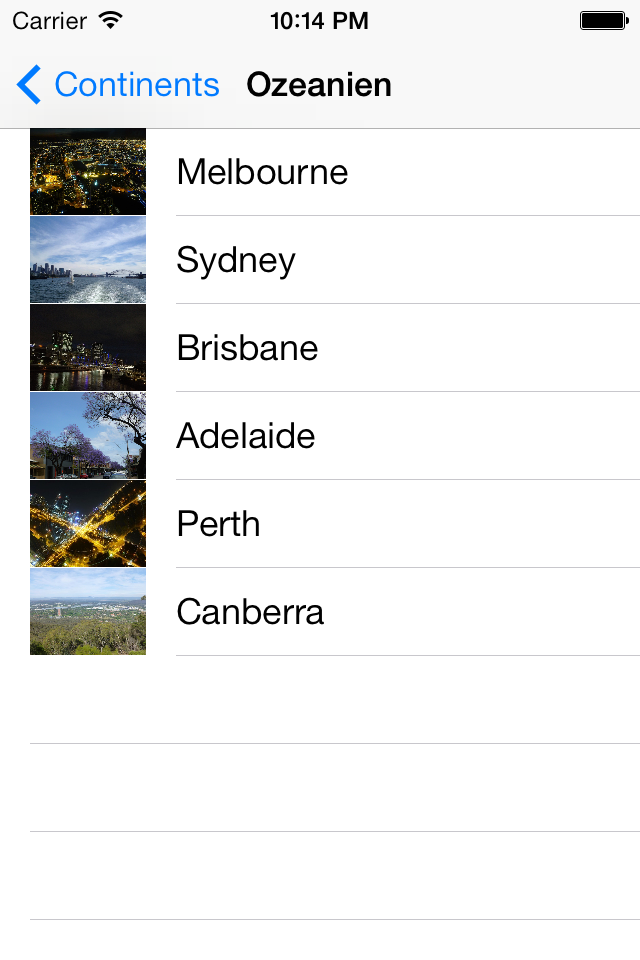
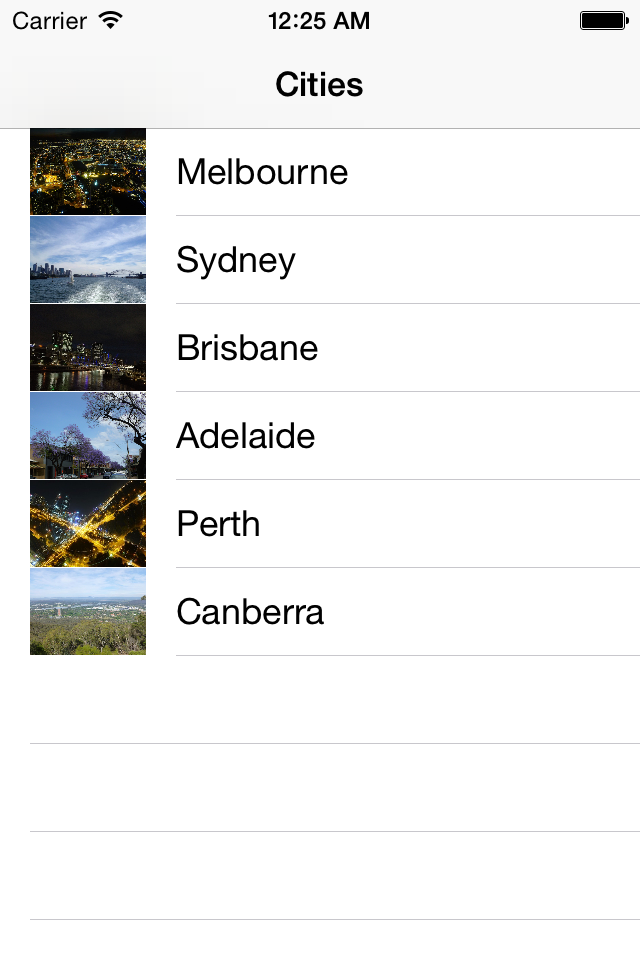
updated for lecture 8

diff --git a/ios_dev_kurs_app_katalog.tex b/ios_dev_kurs_app_katalog.tex
@@ -1234,7 +1234,7 @@ Implementiert diesen ersten Teil der Cities App, indem ihr die Schritte oben nac
 \end{exc}
 
 
-\end{lecture}\end{document} % POINTER
+\end{lecture}
 
 
 \begin{lecture}
@@ -1252,7 +1252,7 @@ UIKit stellt für diese häufig verwendete Master-Detail View Controller Hierarc
 
 \item Ihr könnt nun die Modal Segue zwischen \objc{CitiesViewController} und \objc{CityDetailViewController} auswählen und im Attributes Inspector den Typ zu \strong{Push Segue} ändern. Nun wird automatisch statt der \objc{presentViewController:animated:completion} Methode von \objc{UIViewController} die \objc{pushViewController:animated:} Methode von \objc{UINavigationController} aufgerufen, wenn die Segue ausgelöst wird.
 
-\item Den 'Zurück' Button könnt ihr nun entfernen, da \objc{UINavigationController} einen eigenen Mechanismus implementiert und eine \objc{UINavigationBar} am oberen Bildschirmrand anzeigt. Auch die Labels werden nicht mehr benötigt. Stattdessen können wir das \objc{NSString *title} Attribut von \objc{UIViewController} verwenden, dessen Wert als Titel in der Navigation Bar angezeigt wird \abbref{img:nav_controller_ui}.
+\item Den \emph{Zurück} Button könnt ihr nun entfernen, da \objc{UINavigationController} einen eigenen Mechanismus implementiert und eine \objc{UINavigationBar} am oberen Bildschirmrand anzeigt. Auch die Labels werden nicht mehr benötigt. Stattdessen können wir das \objc{NSString *title} Attribut von \objc{UIViewController} verwenden, dessen Wert als Titel in der Navigation Bar angezeigt wird \abbref{img:nav_controller_ui}.
 
 \includegraphicsc{img/nav_controller_ui.png}{img:nav_controller_ui}{Navigation Controller zeigen eine Navigation Bar an}
 
@@ -1281,35 +1281,19 @@ UIKit stellt für diese häufig verwendete Master-Detail View Controller Hierarc
 
 Verwendet außerdem gerne Auto Layout, um die Views zu positionieren.
 
-\item Durch die Verwendung des Navigation Controllers erhält unsere App nun die Standardanimationen und -mechanismen aus UIKit, diese sich durch die Verwendung von Subklassen und sog. Delegates vielseitig anpassen lassen \abbref{img:nav_controller_run}.
+\item Da wir den Initial View Controller und damit den Root View Controller des Window Objekts verändert haben, müssen wir noch kurz die Implementierung des App Delegates anpassen, um das City Objekt korrekt weiterzugeben.
+
+\begin{objclst}
+// App Delegate.m > application:didFinishLaunchingWithOptions:
+CitiesViewController *citiesVC = [(UINavigationController *)self.window.rootViewController viewControllers][0];
+\end{objclst}
+
+
+\item Durch die Verwendung des Navigation Controllers erhält unsere App nun die Standardanimationen und -mechanismen aus UIKit, die sich bspw. durch die Verwendung von Subklassen und sog. Delegates vielseitig anpassen lassen \abbref{img:nav_controller_run}.
 
 \includegraphicsc[\iphonewidth]{img/nav_controller_run.png}{img:nav_controller_run}{Navigation Controller stellen Standardanimationen und -mechanismen zur Verfügung}
 
 \end{enumerate}
-
-\begin{exc}
-
-\begin{excitem}{continents}{Continents}
-
-Erweitert die App um einen View Controller, der die Städte in Kontinente (oder Planeten) einteilt. Alternativ könnt ihr natürlich auch gene kreativ werden und eine eigene App schreiben, in der zwischen verschiedenen View Controllern gewechselt wird!
-
-\begin{enumerate}
-\item Wenn wir weitere Städte hinzufügen, kann es sinnvoll sein, sie in Kontinente (oder Planeten) einzuteilen. Erstellt eine neue Klasse \objc{Continent} und definiert analog zur \objc{City} Klasse die Attribute \objc{NSString *name} und \objc{UIImage *image}. Aufgrund der Analogien zwischen den beiden Klassen könnt ihr auch stattdessen eine Superklasse \objc{Location} erstellen, die die beiden Attribute definiert, und von der \objc{Continent} und \objc{City} abstammen.
-\item Modifiziert die Benutzerführung der Cities App durch die Einführung eines neuen View Controllers \objc{ContinentsViewController}, der bei der Ausführung zuerst angezeigt werden soll. Konfiguriert einen Button mit dem Namen eines Kontinenten und stellt eine Push Segue Verbindung zum Cities View Controller her.
-\item Implementiert die \objc{prepareForSegue:sender:} Methode des \objc{ContinentsViewController}. Übergebt hier einem neuen Attribut \objc{Continent *continent} des Cities View Controller ein \objc{Continent} Objekt entsprechend des betätigten Buttons.
-\item Verwendet die \objc{viewWillAppear:} Methode, um den Kontinentnamen als Titel des Cities View Controller entsprechend des übergebenen \objc{Continent} Objekts anzuzeigen.
-\item \excextra{Erweitert die Klasse \objc{Location} (bzw. \objc{Continent}) um ein Attribut \objc{NSArray *subLocations} für die enthaltenen Orte. Fügt den View Controllern \objc{ContinentsViewController} und \objc{CitiesViewController} jeweils einen weiteren Button für einen zweiten Ort hinzu. Versucht nun die Implementierungen anzupassen, sodass die Betätigung eines Buttons den entsprechenden Ort an den nächsten View Controller weitergibt. Die Cities View Controller soll also bswp. die Namen der beiden Städte an Position 0 und 1 des \objc{subLocations} Attributs des \objc{Continent} Objekts anzeigen. Eine Limitierung auf 2 Orte ist hier ausreichend, im nächsten Abschnitt werden wir für Situationen dieser Art dynamische Table Views verwenden.}
-\end{enumerate}
-
-\end{excitem}
-
-\end{exc}
-
-
-\end{lecture}
-
-
-\begin{lecture}
 
 
 \section{More Cities}
@@ -1320,65 +1304,57 @@ Wenn wir eine Liste von Objekten darstellen wollen, konfigurieren wir natürlich
 
 \begin{enumerate}
 
-\item Wir möchten nun eine Liste von Städten anstatt einzelner Buttons anzeigen. Dafür ändern wir die Superklasse unseres \objc{CitiesViewController} von \objc{UIViewController} zu \objc{UITableViewController}. Außerdem können wir die IBOutlets entfernen.
+\item Wir möchten nun eine Liste von Städten anstatt einzelner Buttons anzeigen. Dafür ändern wir die Superklasse unseres \objc{CitiesViewController} von \objc{UIViewController} zu \objc{UITableViewController}. Außerdem können wir die IBOutlet Referenz zu dem \emph{cityButton} entfernen.
 
-\item Ein Table View Controller hat ein Objekt der \objc{UITableView} Klasse als Content View. Im Storyboard müssen wir daher die bisherige Content View mit einem Table View Objekt aus der Object Library ersetzen. Die Content View wird ersetzt, wenn wir die neue View einfach auf das View Controller Objekt im Navigationsbereich ziehen.
+\item Ein Table View Controller hat ein Objekt der \objc{UITableView} Klasse als Content View. Im Storyboard müssen wir daher die bisherige Content View mit einem Table View Objekt aus der Object Library ersetzen. Die Content View wird ersetzt, wenn wir die neue View einfach auf das View Controller Objekt in der Document Outline links ziehen.
 
-\strong{Hinweis:} Anstatt einen existierenden View Controller wie beschrieben in einen Table View Controller umzukonfigurieren, kann auch ein Table View Controller aus der Object Library gezogen werden.
+\strong{Hinweis:} Anstatt einen existierenden View Controller wie beschrieben in einen Table View Controller umzukonfigurieren, kann auch ein Table View Controller aus der Object Library gezogen werden. Dieser hat dann bereits eine \objc{UITableView} als Content View
 
-\item Eine Table View kann, wie im Skript beschrieben, dynamischen oder statischen Inhalt darstellen. Im Attributes Inspector können wir den Modus 'Dynamic Properties' auswählen. Damit die Table View nun Inhalt präsentieren kann, benötigt sie \strong{Prototype Cells}, die den 'Bauplan' für jede Zelle dieser Art definieren. Fügt dafür eine \objc{UITableViewCell} aus der Object Library hinzu oder erhöht die entsprechende Zahl im Attributes Inspector um 1.
+\item Eine Table View kann, wie im Skript beschrieben, dynamischen oder statischen Inhalt darstellen. Im Attributes Inspector können wir den Modus \emph{Dynamic Properties} auswählen. Damit die Table View nun Inhalt präsentieren kann, benötigt sie \strong{Prototype Cells}, die den "{}Bauplan"{} für jede Zelle dieser Art definieren. Fügt dafür eine \objc{UITableViewCell} aus der Object Library hinzu oder erhöht die entsprechende Zahl im Attributes Inspector um 1.
 
-\item Wir können Prototype Cells nun entweder nach Belieben mit Subviews konfigurieren, oder im Attributes Inspector einen Standardstil auswählen. Wählt hier zunächst 'Basic' \abbref{img:morecities_prototypecells}.
+\item Wir können Prototype Cells nun entweder nach Belieben mit Subviews konfigurieren, oder im Attributes Inspector einen Standardstil auswählen. Wählt hier zunächst einfach \emph{Basic} \abbref{img:morecities_prototypecells}.
 
 \includegraphicsc[\iphonewidth]{img/morecities_prototypecells.png}{img:morecities_prototypecells}{Prototype Cells dienen als Vorlage für die Zellen der Table View}
 
-\item Um Prototype Cells zu identifizieren, sollte ihnen ein \strong{Reuse Identifier} im Attributes Inspector zugeordnet werden. Tippt hier 'cityCell' ein.
+\item Um Prototype Cells zu identifizieren, sollte ihnen ein \strong{Reuse Identifier} im Attributes Inspector zugeordnet werden. Tippt hier \emph{cityCell} ein. Wie im Skript erklärt kann die Table View damit Zellen, die gerade nicht angezeigt werden, an anderer Stelle wiederverwenden.
 
-\item Da unsere Table View dynamischen Inhalt anzeigen soll, können wir diesen nicht im Storyboard konfigurieren. Stattdessen verwendet die Table View das \strong{Delegate Kozept}, um Daten zu 'erfragen', wenn sie sie benötigt. Dazu ruft das \objc{UITableView} Objekt Methoden auf einem Delegate Objekt auf, die in einem \strong{Protokoll} definiert sind. \objc{UITableView} teilt diese Anfragen in die \objc{UITableViewDatasource} und \objc{UITableViewDelegate} Protokolle auf. Um den entsprechenden Attributen \objc{id<UITableViewDatasource> datasource} und \objc{id<UITableViewDelegate> delegate} Objekte zuzuweisen, sind diese als IBOutlets markiert. Zieht also zwei Verbindungen von der Table View zum \objc{CitiesViewController} und wählt diesen damit sowohl als Delegate als auch als Datasource.
+\item Da unsere Table View dynamischen Inhalt anzeigen soll, können wir diesen nicht im Storyboard konfigurieren. Stattdessen verwendet die Table View das \strong{Delegate Kozept}, um Daten zu "{}erfragen"{}, wenn sie sie benötigt. Dazu ruft das \objc{UITableView} Objekt Methoden auf einem Delegate Objekt auf, die in einem \strong{Protokoll} definiert sind. \objc{UITableView} teilt diese Anfragen in die \objc{UITableViewDatasource} und \objc{UITableViewDelegate} Protokolle auf. Um den entsprechenden Attributen \objc{id<UITableViewDatasource> datasource} und \objc{id<UITableViewDelegate> delegate} Objekte zuzuweisen, sind diese als IBOutlets markiert. Zieht also zwei Verbindungen von der Table View zum \objc{CitiesViewController} und wählt diesen damit sowohl als Delegate als auch als Datasource.
 
-\item Im Allgemeinen repräsentiert eine Table View ein \objc{NSArray}. Definiert also im Interface des \objc{CitiesViewController} ein Attribut \objc{NSArray *cities} und überschreibt die Getter Methode des Attributs, um die Liste auf Anfrage zu erstellen und zurückzugeben:
+\item Im Allgemeinen repräsentiert eine Table View ein \objc{NSArray}. Definiert also im öffentlichen Interface des \objc{CitiesViewController} ein Attribut \objc{NSArray *cities} anstatt des bisherigen \objc{City *city} Attributs.
 
 \begin{objclst}
-#import "CitiesViewController.h"
-#import "City.h"
+// CitiesViewController.h
 
-@interface CitiesViewController ()
+@interface CitiesViewController : UITableViewController
 
 @property (strong, nonatomic) NSArray *cities;
 
 @end
+\end{objclst}
 
-@implementation CitiesViewController
+Passt außerdem erneut die Implementierung des App Delegates an, um diesem Attribut nun eine Liste von Städten zuzuweisen.
 
-- (NSArray *)cities {
-    /* Da wir die Getter Methode hier überschreiben, können wir nicht self.cities verwenden, da die Dot-Syntax die Getter Methode aufruft (Endlosschleife). Stattdessen verwenden wir die ebenfalls (für jede Property) automatisch generierte Instanzvariable _cities (s. Skript). */
-    if (!_cities) {
+\begin{objclst}
+// AppDelegate.m
 
-        City *melbourne = [[City alloc] init];
-        melbourne.name = @"Melbourne";
-        melbourne.image = [UIImage imageNamed:@"melbourne"];
-        City *sydney = [[City alloc] init];
-        sydney.name = @"Sydney";
-        sydney.image = [UIImage imageNamed:@"sydney"];
-        City *brisbane = [[City alloc] init];
-        brisbane.name = @"Brisbane";
-        brisbane.image = [UIImage imageNamed:@"brisbane"];
-        City *adelaide = [[City alloc] init];
-        adelaide.name = @"Adelaide";
-        adelaide.image = [UIImage imageNamed:@"adelaide"];
-        City *perth = [[City alloc] init];
-        perth.name = @"Perth";
-        perth.image = [UIImage imageNamed:@"perth"];
-        City *canberra = [[City alloc] init];
-        canberra.name = @"Canberra";
-        canberra.image = [UIImage imageNamed:@"canberra"];
+- (BOOL)application:(UIApplication *)application didFinishLaunchingWithOptions:(NSDictionary *)launchOptions
+{
+    // create some city objects
+    City *melbourne = [[City alloc] init];
+    melbourne.name = @"Melbourne";
+    melbourne.image = [UIImage imageNamed:@"melbourne"];
+    City *sydney = [[City alloc] init];
+    sydney.name = @"Sydney";
+    sydney.image = [UIImage imageNamed:@"sydney"];
+    // (...)
 
-        _cities = @[melbourne, sydney, brisbane, adelaide, perth, canberra];
-    }
-    return _cities;
+    // provide root view controller with model objects
+    CitiesViewController *citiesVC = [(UINavigationController *)self.window.rootViewController viewControllers][0];
+    citiesVC.cities = @[melbourne, sydney];
+    
+    return YES;
 }
 
-@end
 \end{objclst}
 
 \item Als Subklasse von \objc{UITableViewController} erbt \objc{CitiesViewController} leere Implementierungen der \objc{UITableViewDatasource} und \objc{UITableViewDelegate} Protokolle. Wir können diese nun überschreiben, um unsere Tabelle mit Daten zu füllen. Dabei sind zunächst die drei erforderlichen Methoden zur Darstellung einer dynamischen Table View zu implementieren:
@@ -1400,7 +1376,7 @@ Wenn wir eine Liste von Objekten darstellen wollen, konfigurieren wir natürlich
     City *city = [self.cities objectAtIndex:indexPath.row];
 
     // Erstellt ein neues UITableViewCell Objekt entsprechend der im Storyboard definierten Prototype Cell mit dem gegebenen Identifier oder verwendet eine existierende, momentan nicht verwendete Zelle mit diesem Identifier
-    UITableViewCell *cell = [tableView dequeueReusableCellWithIdentifier:@"cityCell"];
+    UITableViewCell *cell = [tableView dequeueReusableCellWithIdentifier:@"cityCell" forIndexPath:indexPath];
 
     // Konfiguriert die View entsprechend des Models
     cell.textLabel.text = city.name;
@@ -1410,45 +1386,63 @@ Wenn wir eine Liste von Objekten darstellen wollen, konfigurieren wir natürlich
 }
 \end{objclst}
 
-\objc{#pragma mark} kennzeichnet eine Überschrift ähnlich eines Kommentars und wird zusätzlich in der Jump Bar angezeigt. Ein Bindestrich \objc{-} erzeugt dort eine horizontale Trennlinie
+\objc{#pragma mark} kennzeichnet eine Überschrift ähnlich eines Kommentars und wird zusätzlich in der Jump Bar angezeigt. Ein Bindestrich \objc{-} erzeugt dort eine horizontale Trennlinie.
+
+Die zuvor implementierten Methoden werden nicht mehr benötigt.
 
 \item Diese drei Methoden des \objc{UITableViewDatasource} Protokolls stellen der Table View die erforderlichen Informationen zur Verfügung, um die Tabelle anzeigen zu können \abbref{img:cities_tableview}.
 
 \includegraphicsc[\iphonewidth]{img/cities_tableview.png}{img:cities_tableview}{Eine Table View stellt Anfragen an ihr Datasource und Delegate Objekt, um Zellen dynamisch anzuzeigen}
 
-\item Die Präsentation des Detail City View Controllers kann nun erneut mithilfe von Segues realisiert werden. Dazu können wir im Storyboard eine Push Segue von der Prototype Cell zum Detail City View Controller erstellen.
+\item Die Präsentation des Detail City View Controllers kann nun erneut mithilfe von Segues realisiert werden. Dazu können wir im Storyboard eine Push Segue von der Prototype Cell zum Detail City View Controller erstellen und ihr erneut den Identifier \emph{showCityDetail} geben.
 
 \item Da diese Segue nun von jeder Zelle ausgelöst wird, die nach Vorlage der Prototype Cell erstellt wurde, müssen wir in der \objc{prepareForSegue:sender:} Methode zunächst den Index Path der betätigten Zelle herausfinden. Damit lässt sich anschließend das entsprechende Model Objekt erhalten und der City Detail View Controller konfigurieren.
 
 \begin{objclst}
-- (void)prepareForSegue:(UIStoryboardSegue *)segue sender:(id)sender {
+//  ViewController.m
 
-    NSIndexPath *indexPath = [self.tableView indexPathForCell:sender];
-    City *city = [self.cities objectAtIndex:indexPath.row];
+#import "CitiesViewController.h"
+#import "City.h"
+#import "CityDetailViewController.h"
 
-    CityDetailViewController *cityDetailVC = segue.destinationViewController;
-    cityDetailVC.city = city;
+@implementation CitiesViewController
+
+#pragma mark - User Interaction
+
+- (void)prepareForSegue:(UIStoryboardSegue *)segue sender:(id)sender
+{
+    if ([segue.identifier isEqualToString:@"showCityDetail"]) {
+
+        City *city = [self.cities objectAtIndex:self.tableView.indexPathForSelectedRow.row];
+        
+        CityDetailViewController *cityDetailVC = segue.destinationViewController;
+        cityDetailVC.city = city;
+    }
 }
+
+#pragma mark - Table View Datasource
+
+// (...)
+
+@end
 \end{objclst}
+
+\item Wird nun eine Stadt in der Liste ausgewählt, wird der City Detail View Controller entsprechend konfiguriert und angezeigt. Beachtet, dass wir an dessen Implementierung nichts geändert haben!
 
 \end{enumerate}
 
 \begin{exc}
 
-\begin{excitem}{tableviews}{Table Views}
+\begin{excitem}{tableviews}{Cities 2}
 
-Verwendet nun analog auch für den Continents View Controller aus der vorherigen Übungsaufgabe eine dynamische Table View oder schreibt eine andere App, die Table Views verwendet.
-
-Ersetzt dazu die Content View des Continents View Controllers im Storyboard mit einer Table View, ändert dessen Klasse zu \objc{UITableViewController} und implementiert die benötigten Methoden der \objc{UITableViewDatasource} und objc{UITableViewDelegate} Protokolle.
-
-\exchinweis{Vergesst nicht, der Table View den Continents View Controller als Datasource und Delegate Objekt zuzuweisen, sodass die Methoden überhaupt aufgerufen werden. Im Storyboard stehen dazu die IBOutlets der Table View zur Verfügung.}
+Implementiert die Cities App nun vollständig, indem ihr die Schritte oben nachvollzieht.
 
 \end{excitem}
 
 \end{exc}
 
 
-\end{lecture}
+\end{lecture}\end{document} % POINTER
 
 
 \begin{lecture}

diff --git a/ios_dev_kurs_skript.tex b/ios_dev_kurs_skript.tex
@@ -1566,11 +1566,6 @@ Im Code können wir auf das Auslösen einer Segue reagieren, um den View Control
 \end{objclst}
 
 
-
-\end{document} % POINTER
-
-
-
 \section{Das Delegate Konzept}\label{sec:delegate_konzept}
 
 In der Programmierung komplexerer Apps ist es häufig notwendig, dass Klassen Informationen untereinander austauschen. Das \strong{Delegate Konzept} ist ein einfacher und vielverwendeter Mechanismus der \strong{einseitigen} Kommunikation zwischen Klassen, das einem einfachen \strong{Frage-Antwort-Prinzip} folgt \abbref{img:delegation}.
@@ -1579,9 +1574,9 @@ In der Programmierung komplexerer Apps ist es häufig notwendig, dass Klassen In
 
 Die aktive (fragende) Klasse stellt in ihrem öffentlichen Header ein \strong{Protokoll} zur Verfügung, das die verwendeten Methoden definiert. Außerdem besitzt sie ein öffentliches Attribut, häufig \objc{delegate} genannt, das eine Referenz zu einem Objekt der passiven (antwortenden) Klasse hält. Diese implementiert die Methoden des Protokolls, die in entsprechenden Situationen von der aktiven Klasse aufgerufen werden können.
 
-Methoden in einem Protokoll dienen in den meisten Fällen einem von zwei Zwecken:
+Methoden in einem Protokoll dienen in den meisten Fällen zwei Zwecken:
 \begin{itemize}
-\item Von dem Delegate Objekt werden Informationen angefordert, oder
+\item Von dem Delegate Objekt werden Informationen angefordert, \emph{und/oder}
 \item Das Delegate Objekt wird benachrichtigt, wenn eine bestimmte Situation eintritt.
 \end{itemize}
 
@@ -1695,7 +1690,7 @@ Das Delegate Konzept ist häufig hilfreich, um erforderliche Informationen anzuf
 
 \section{Table Views \& Table View Controller}
 
-Aufgrund des eingeschränkten Platzes auf Geräten der iOS Plattform verwenden sehr viele Apps \objc{UIScrollView} oder Subklassen derselben, um Views über die Bildschirmgröße hinaus darzustellen. \objc{UITableView} ist eine solche Subklasse, die in einem Großteil der iOS Apps zu finden ist.
+Aufgrund des eingeschränkten Platzes auf Geräten der iOS Plattform verwenden sehr viele Apps \objc{UIScrollView} oder Subklassen davon, um Views über die Bildschirmgröße hinaus darzustellen. \objc{UITableView} ist eine solche Subklasse, die in einem Großteil der iOS Apps zu finden ist.
 
 \strong{Table Views} stellen eine Liste von \objc{UITableViewCell : UIView} Objekten dar und verwenden den Scrollmechanismus von \objc{UIScrollView}.
 
@@ -1729,7 +1724,7 @@ Prinzipiell kann die Table View an einer beliebigen Stelle der View Hierarchie d
 
 In den meisten Fällen verwenden wir jedoch die Table View selbst als Content View des View Controllers. UIKit stellt hierzu die vereinfachende Subklasse \objc{UITableViewController : UIViewController} zur Verfügung, die das Content View Attribut \objc{UIView *view} mit \objc{UITableView *tableView} ersetzt und darüber hinaus einige hilfreiche Mechanismen implementiert.
 
-In der Implementierung der \objc{UITableViewController} Subklasse können wir nun die Methoden der Datasource und Delegate Protokolle implementieren. Die Dokumentation beschreibt die Protokolle in gewohnter ausführlicher Form.
+In der Implementierung der \objc{UITableViewController} Subklasse können wir nun die Methoden der Datasource und Delegate Protokolle implementieren. Die Dokumentation beschreibt die Protokolle in gewohnt ausführlicher Form.
 
 Folgende Methoden sollten jedoch in keiner \objc{UITableViewDatasource} Implementierung fehlen:
 
@@ -1743,7 +1738,7 @@ Folgende Methoden sollten jedoch in keiner \objc{UITableViewDatasource} Implemen
 
 - (NSInteger)tableView:(UITableView *)tableView numberOfRowsInSection:(NSInteger)section {
     // Bestimmt die Anzahl der Rows für die angegebene Section
-    return [self.objects count];
+    return self.objects.count;
 }
 
 - (UITableViewCell *)tableView:(UITableView *)tableView cellForRowAtIndexPath:(NSIndexPath *)indexPath {
@@ -1784,6 +1779,12 @@ Alternativ zur Implementierung dieser Delegate Methode können auch Storyboard S
 
 }
 \end{objclst}
+
+
+
+\end{document} % POINTER
+
+
 
 \section{Data Persistance}
 
@@ -1842,7 +1843,7 @@ Core Data stellt die Grundlage vieler iOS Apps dar und ist eine sehr komplexe un
 
 \subsection{State Preservation}
 
-UIKit bietet ein sehr einfach zu integrierendes System zur Wiederherstellung der Benutzeroberfläche, das jedoch konzeptionell nicht zur Speicherung von Daten den Model Komponente dienen soll. Das State Preservation System ist damit der View- und View Controller Komponente zugeordnet, während für die Model Komponente häufig Core Data verwendet wird.
+UIKit bietet ein sehr einfach zu integrierendes System zur Wiederherstellung der Benutzeroberfläche, das jedoch konzeptionell nicht zur Speicherung von Daten der Model Komponente dienen soll. Das State Preservation System ist damit der View- und View Controller Komponente zugeordnet, während für die Model Komponente häufig Core Data verwendet wird.
 
 Elemente der Benutzeroberfläche werden hier anhand des \objc{NSString* restorationIdentifier} Attributs identifiziert. Bei der Wiederherstellung wird für jeden dieser Identifier ein entsprechendes Objekt angefordert, oder bei Verwendung eines Storyboards automatisch erstellt. View Controller und Views können dann die \objc{encodeRestorableStateWithCoder:} und \objc{decodeRestorableStateWithCoder:} Methoden implementieren, um ihre Darstellung zu archivieren und wiederherzustellen. Im iOS App Programming Guide \linkref{https://developer.apple.com/library/ios/documentation/iPhone/Conceptual/iPhoneOSProgrammingGuide/} ist das State Preservation System ausführlich dokumentiert.
 
@@ -1882,7 +1883,7 @@ Aufgrund der mobilen Natur der iOS Plattform und der einfachen Handhabung von Ap
 
 Dabei wird sich bspw. kaum ein Benutzer über eine leicht verlängerte Laufzeit eines Prozesses aufgrund eines ineffektiven Algorithmus beschweren, solange ihm der Fortschritt auf dem Bildschirm präsentiert wird. Eine 'eingefrorene' App, die jedoch auf effektivste Weise arbeitet, stört das Benutzererlebnis dagegen enorm und wird schnell wieder gelöscht.
 
-Auch auf der iOS Plattform ist Sturgeon's Gesetz deutlich erkennbar: \emph{"ninety percent of everything is crap"}. Erfolgreiche Apps sind daher sorgfältig konzipiert und getestet und zeichnen sich durch eine intuitive Benutzerführung aus. Ein Benutzer sollte jederzeit ohne Nachzudenken wissen, wie er handeln muss, um eine bestimmte Wirkung hervorzurufen. Dieses generelle Designkonzept ist nicht auf iOS Apps beschränkt sondern kann auch in vielen anderen Kontexten beobachtet werden \abbref{img:intuitive_doors}.
+Auch auf der iOS Plattform ist Sturgeon's Gesetz deutlich erkennbar: \emph{"ninety percent of everything is crap"}. Erfolgreiche Apps sind daher sorgfältig konzipiert und getestet und zeichnen sich durch eine intuitive Benutzerführung aus. Ein Benutzer sollte jederzeit ohne Nachzudenken wissen, wie er handeln muss, um eine bestimmte Wirkung hervorzurufen. Dieses generelle Designkonzept ist nicht allein auf iOS Apps beschränkt sondern kann auch in vielen anderen Kontexten beobachtet werden \abbref{img:intuitive_doors}.
 
 %***\includegraphicsc{img/intuitive_doors.png}{img:intuitive_doors}{Öffnet sich eine Tür nur in einer Richtung, wird sie jede zweite Person zunächst falsch zu öffnen versuchen. Beschriftungen helfen hier (nach eigener Erfahrung) meist nur bedingt. Besitzt sie jedoch in der Öffnungsrichtung eine Druckfläche und entgegen der Öffnungsrichtung einen Griff, wird sie jede Person sofort richtig bedienen.}
 
@@ -1923,7 +1924,7 @@ Während ihr auch ohne einen solchen bezahlten Entwickleraccount Apps schreiben 
 
 \subsection{Unternehmensanmeldung}
 
-\emph{Hinweis:} Natürlich bin ich weder Anwalt noch Finanzberater und kann hier allein meine eigene Erfahrung wiedergeben. Wertvolle Informationen zu Themen dieser Art kann hingegen die lokale \strong{IHK / Industrie- und Handelskammer} geben.
+\strong{Hinweis:} Natürlich bin ich weder Anwalt noch Finanzberater und kann hier allein meine eigene Erfahrung wiedergeben. Wertvolle Informationen zu Themen dieser Art kann hingegen die lokale \strong{IHK / Industrie- und Handelskammer} geben.
 
 Es ist unumgänglich, aber sehr einfach, für die Teilnahme am iOS Developer Program ein Unternehmen anzumelden. Dazu ist lediglich ein Besuch beim nächsten \strong{Gewerbeamt}, die Angabe einiger Daten und die Bezahlung einer geringen Gebühr von etwa 30€ erforderlich.
 

diff --git a/ios_dev_kurs_loesungen.tex b/ios_dev_kurs_loesungen.tex
@@ -622,11 +622,7 @@ Die \objc{buttonCenterView} besitzt damit eine Intrinsic Content Size, die von d
 \end{lsgitem}\end{lsg}\end{document} % POINTER
 
 
-\begin{lsgitem}{cities}{Cities}
-
-Anleitung im App Katalog…
-
-\end{lsgitem}
+\setcounter{section}{11} % Cities
 
 
 \begin{lsgitem}{continents}{Continents}
